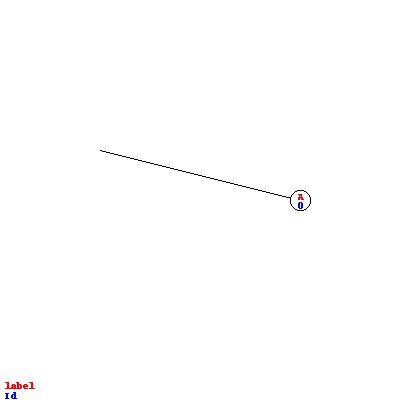
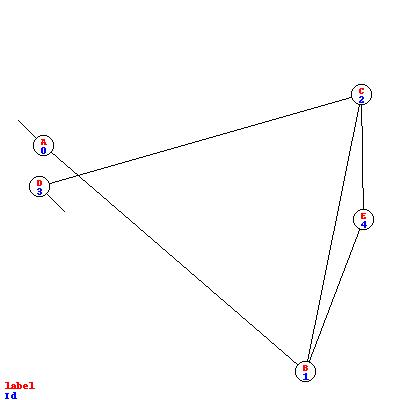
TD4 jusqu'a question 6 ok

diff --git a/modules/Interface.py b/modules/Interface.py
@@ -43,7 +43,7 @@ def drawnode(self, noeud, p, verbose = False):
 
 
 
-def drawarrete(self, p1, p2):#peut etre rajouter verbose, mais ca faisait un bug dans self.arrows(...)
+def drawarrete(self, p1, p2):
 
     if(p2.x >= p1.x and p2.y > p1.y) :
         p_depart=point(p1.x, p1.y)
@@ -63,9 +63,26 @@ def drawarrete(self, p1, p2):#peut etre rajouter verbose, mais ca faisait un bug
         self.arrows(p_depart, p_arrivee)
 
 
-def drawgraph(self, g, method='manual', node_pos=None, input_pos=None, output_pos=None):
+def random_layout(g, node_pos, input_pos, output_pos):
+    for id in g.nodes.keys():# la c
+        node_pos[id]=point(random.randrange(25,375), random.randrange(25,375))
+    j=0
+    for id in g.inputs:
+        input_pos[id]=point(node_pos[id].x - 25, node_pos[id].y - 25)
+        j=j+1
+    i = 0;
+    for id in g.outputs:
+        x = node_pos[id].x
+        y = node_pos[id].y
+
+        output_pos[i]=point(node_pos[id].x + 25, node_pos[id].y + 25)
+        i=i+1
+    return node_pos, input_pos, output_pos
+
+
+def drawgraph(self, g, method='manual', node_pos=None, input_pos=None, output_pos=None, verbose=False):
     if (method=='random'):
-        node_pos, input_pos, output_pos = randomlayout(g, node_pos, input_pos, output_pos)
+        node_pos, input_pos, output_pos = random_layout(g, node_pos, input_pos, output_pos)
 
     for i in range(len(g.get_inputs_ids())): #on trace l'entrée
         self.arrows(input_pos[i], node_pos[g.get_inputs_ids()[i]])
@@ -75,7 +92,7 @@ def drawgraph(self, g, method='manual', node_pos=None, input_pos=None, output_po
         for child in g.nodes[id].get_children_ids():
             self.arrete(node_pos[id], node_pos[child])
     for id in g.nodes.keys(): # on trace les nodes
-        self.node(g.get_node_by_id(id),node_pos[id])
+        self.node(g.get_node_by_id(id),node_pos[id], verbose)
 
 
 
@@ -84,14 +101,7 @@ def drawgraph(self, g, method='manual', node_pos=None, input_pos=None, output_po
     #faire : tracer une fl`eche de input_pos[i] vers le noeud d’id g.get_input_ids[i]. output_pos quand tu auras compris
 
 
-def random_layout(g, node_pos, input_pos, output_pos):
-    for id in g.nodes.keys():
-        node_pos[id]=point(random.randrange(10,390), random.randrange(10,390))
-    for id in g.inputs:
-        input_pos[id]=point(node_pos[id].x - 25, node_pos[id].y - 25)
-    for id in g.outputs:
-        output_pos[id]=point(node_pos[id].x + 25, node_pos[id].y + 25)
-    return node_pos, input_pos, output_pos
+
 
 
 

diff --git a/modules/open_digraph.py b/modules/open_digraph.py
@@ -214,11 +214,11 @@ class open_digraph: #for open directed graph
         if(self.id_exists_in_graph(new_id)==False):
             #self.get_node_by_id(node_id).id = new_id
             for i in self.get_node_by_id(node_id).parents:
-                for j in self.i.children:
+                for j in self.get_node_by_id(i).children:
                     if (j.id == node_id):
                         j.set_id(new_id)
             for i in self.get_node_by_id(node_id).children:
-                for j in self.i.parents:
+                for j in self.get_node_by_id(i).parents:
                     if (j.id == node_id):
                         j.set_id(new_id)
             for i in self.inputs:

diff --git a/worksheet.py b/worksheet.py
@@ -49,11 +49,11 @@ input_pos= [pentree]
 
 output_pos= [psortie]
 
-draw.graph(g, node_pos, input_pos,output_pos)
+draw.graph(g,'random', node_pos, input_pos,output_pos, True)
 #def drawgraph(self, g, method='manual', node_pos=None, input_pos=None, output_pos=None):
 #draw.arrows(p1, p2)
-draw.arrete(p2,p3)
-draw.node(n0, p3, True)
+#draw.arrete(p2,p3)
+#draw.node(n0, p3, True)
 #draw.node(n1, p2, True)
 draw.text((5,380), "label", fill='red')
 draw.text((5,390), "Id", fill='blue')
